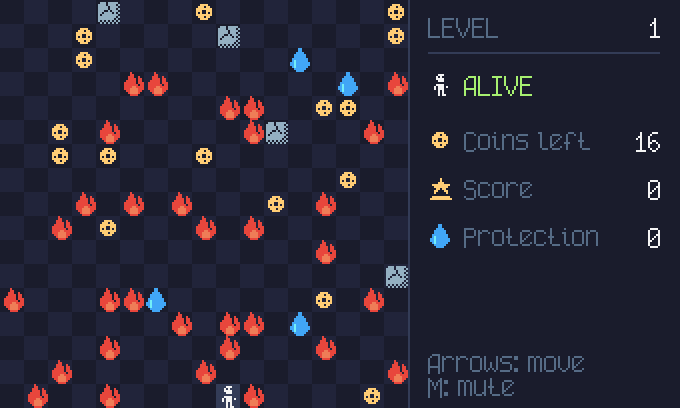
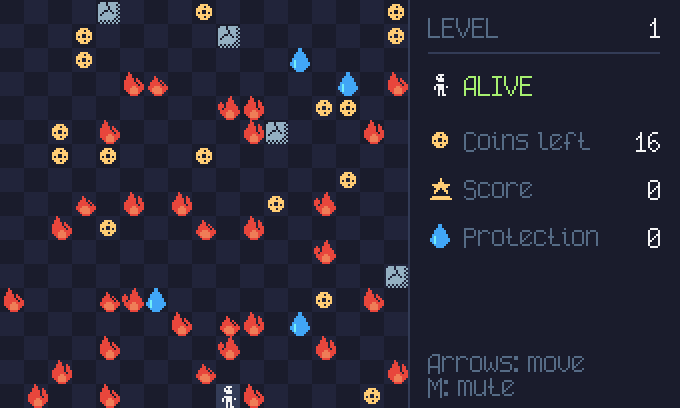
Make the fire flicker
Four flame frames and a visual-only Animation with its own RNG: every
square swaps to a random other frame after a random 70-220 ms. The page
passes dt to platform_frame and redraws only when a flame changed.

diff --git a/web/index.html b/web/index.html
@@ -92,8 +92,11 @@
 	});
 
 	const image = ctx.createImageData(W, H);
-	function frame() {
-		if (ex.platform_frame()) {
+	let last = performance.now();
+	function frame(now) {
+		const dt = Math.min((now - last) / 1000, 0.1); // seconds; capped after a hidden tab
+		last = now;
+		if (ex.platform_frame(dt)) {
 			// Read the buffer after the call: wasm memory may have grown.
 			image.data.set(new Uint8Array(memory.memory.buffer, ex.platform_frame_ptr(), W * H * 4));
 			ctx.putImageData(image, 0, 0);

diff --git a/tools/extract_assets.py b/tools/extract_assets.py
@@ -38,7 +38,8 @@ TILES = [
 ]
 
 # '#' = main colour, 'o' = accent colour.
-FIRE = ("""
+# Four flame frames; the game picks one per fire cell at random (see Animation in render.odin).
+FIRE_FRAMES = [("""
 .....#......
 .....##.....
 ....###..#..
@@ -51,7 +52,46 @@ FIRE = ("""
 ...##oooo##.
 ....#oooo#..
 .....####...
-""", 7, 10)
+""", 7, 10), ("""
+....#.......
+....##......
+...###......
+...####.#...
+..#####.##..
+..######.##.
+..#######.##
+..####oo####
+..###oooo###
+...##oooo##.
+....#oooo#..
+.....####...
+""", 7, 10), ("""
+.......#....
+......##....
+......###...
+..#..####...
+.###.#####..
+.###.######.
+.##.#######.
+..####oo####
+..###oooo###
+...##oooo##.
+....#oooo#..
+.....####...
+""", 7, 10), ("""
+............
+............
+.....#......
+.....##.....
+....###.#...
+...#####.#..
+...######.#.
+..###ooo####
+..##ooooo###
+...#ooooo##.
+....#oooo#..
+.....####...
+""", 7, 10)]
 DROP = ("""
 .....##.....
 .....##.....
@@ -95,7 +135,8 @@ def build():
     icons = []  # (name, pixels, main colour, accent colour)
     for name, (c, r), colour in TILES:
         icons.append((name, mask_of(tile(sheet, c, r)), colour, colour))
-    icons.append(("Fire", art(FIRE[0], FIRE[1], FIRE[2]), FIRE[1], FIRE[2]))
+    for i, (text, main, accent) in enumerate(FIRE_FRAMES):
+        icons.append(("Fire" if i == 0 else "Fire_%d" % i, art(text, main, accent), main, accent))
     icons.append(("Drop", art(DROP[0], DROP[1], DROP[2]), DROP[1], DROP[2]))
     font = [[0] * 12 for _ in range(128)]
     for row, chars in FONT_ROWS:

diff --git a/CLAUDE.md b/CLAUDE.md
@@ -31,7 +31,7 @@ The whole game is ~230 lines of Lua in a single code chunk:
 
 ## Graphics (port)
 
-The port no longer matches the original's look on purpose. The screen is 340x204: a 17x17 board of 12 px icons (204x204, checkered dark floor, the player's square lighter) and a stats panel (level, ALIVE/DEAD, coins left, score, protection, with icons). Icons are single-colour masks from the Urizen 1-bit tileset by vurmux (CC0; credit it in any release): person (104,0), skeleton (104,10) for the dead player, coin (8,20), boulder (6,2), star (33,25), recoloured in `tools/extract_assets.py` (red fire, blue droplet, gray boulder, yellow coin). Urizen has no plain flame or droplet, so those two are hand-drawn 12x12 two-colour masks in the same script. Text is the Urizen bitmap font (sheet row 44-47 from column 78) drawn proportionally. HUD layout is in `draw_game` in `render.odin`.
+The port no longer matches the original's look on purpose. The screen is 340x204: a 17x17 board of 12 px icons (204x204, checkered dark floor, the player's square lighter) and a stats panel (level, ALIVE/DEAD, coins left, score, protection, with icons). Icons are single-colour masks from the Urizen 1-bit tileset by vurmux (CC0; credit it in any release): person (104,0), skeleton (104,10) for the dead player, coin (8,20), boulder (6,2), star (33,25), recoloured in `tools/extract_assets.py` (red fire, blue droplet, gray boulder, yellow coin). Urizen has no plain flame or droplet, so those two are hand-drawn 12x12 two-colour masks in the same script. Text is the Urizen bitmap font (sheet row 44-47 from column 78) drawn proportionally. HUD layout is in `draw_game` in `render.odin`. Fire flickers: four hand-drawn flame frames (`Fire`, `Fire_1..3`), and a visual-only `Animation` (own RNG, per-square timers of 70 to 220 ms, random next frame) that `platform_frame(dt)` steps every animation frame; it only asks for a redraw when a square that is on fire changed, and `draw_game` shows the calm frame when no animation is passed.
 
 ## Port architecture
 
